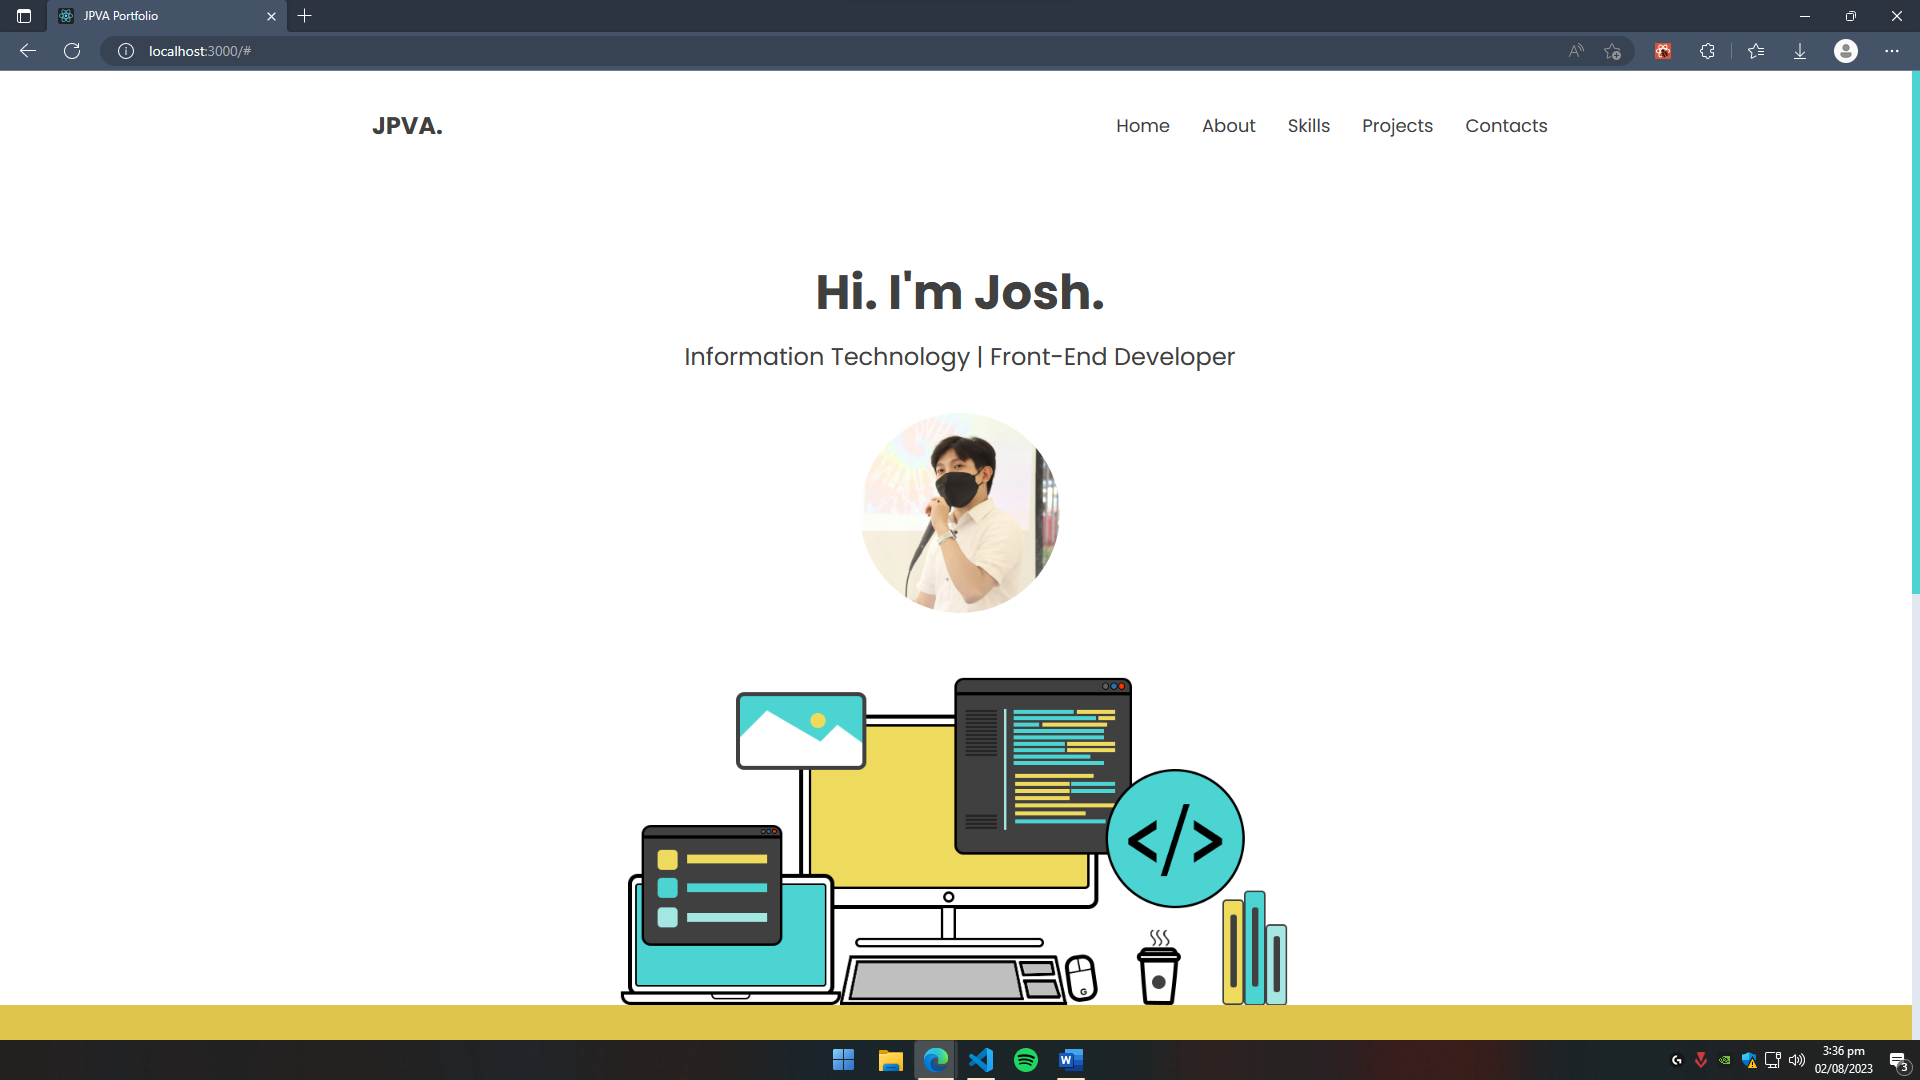
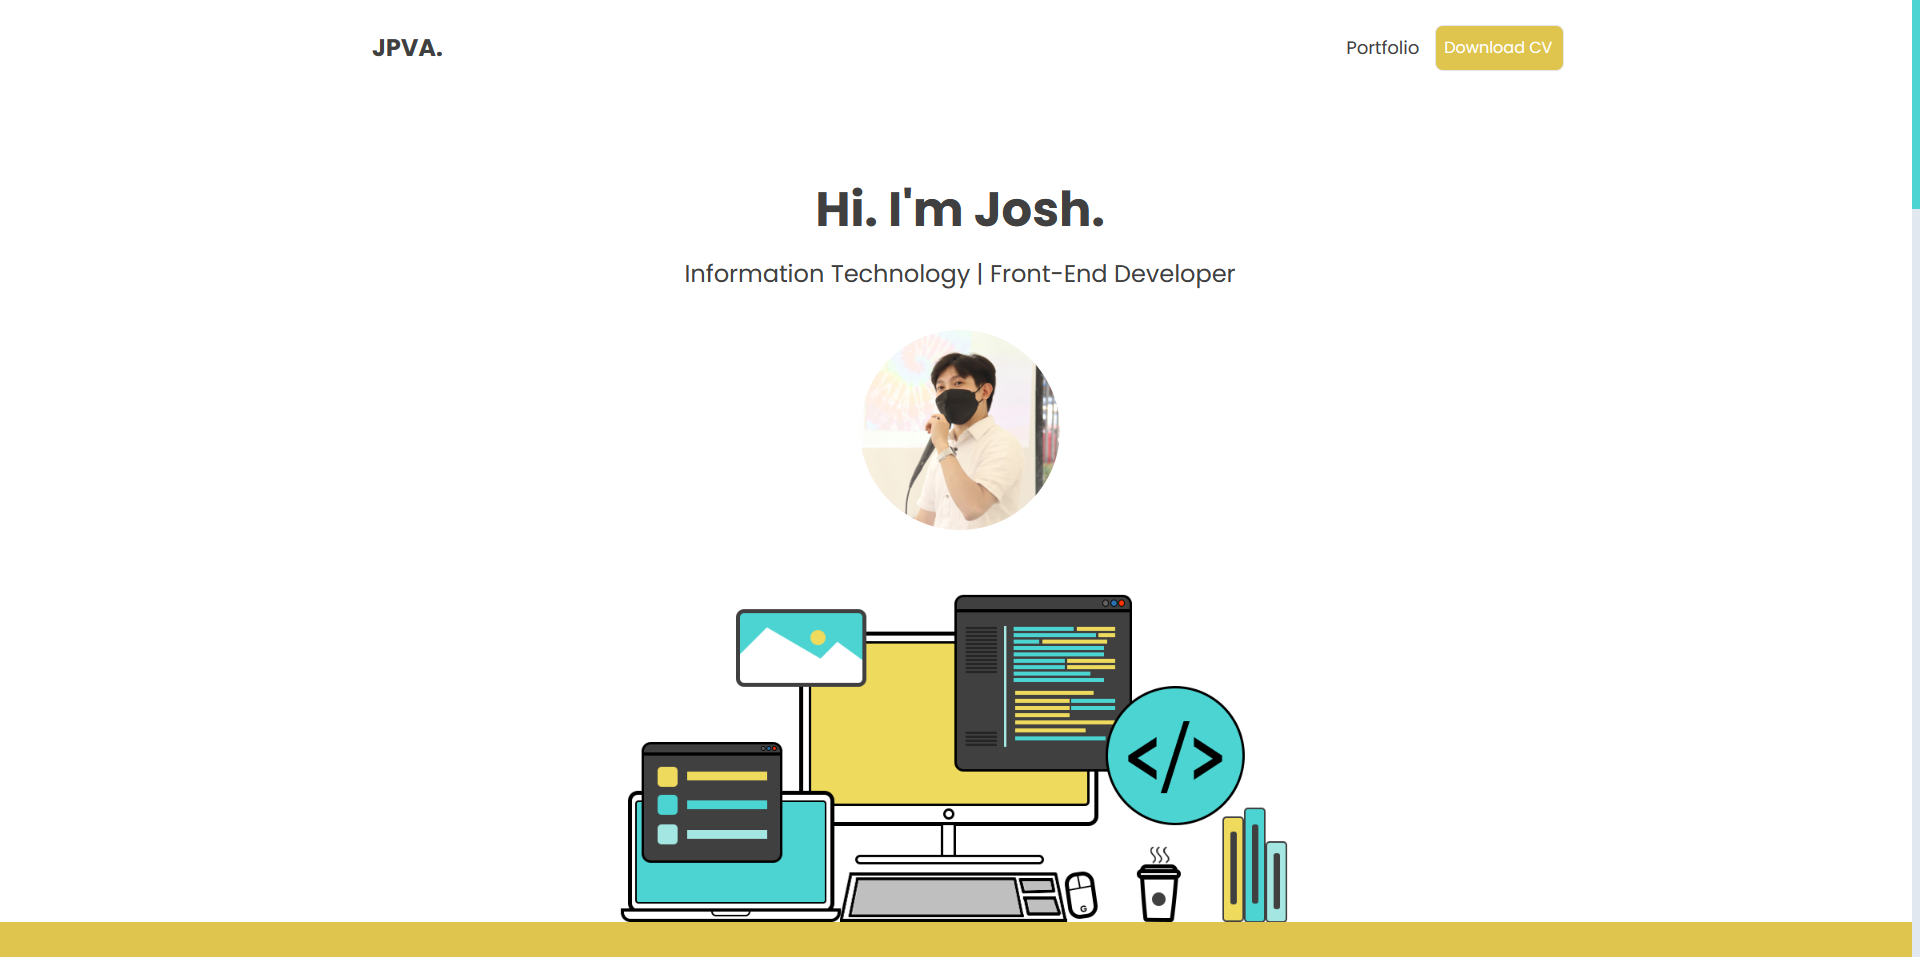
Commit

diff --git a/build/index.html b/build/index.html
@@ -1,1 +1,1 @@
-<!doctype html><html lang="en"><head><meta charset="utf-8"/><link rel="icon" href="/favicon.ico"/><meta name="viewport" content="width=device-width,initial-scale=1"/><meta name="theme-color" content="#000000"/><meta name="description" content="Web site created using create-react-app"/><link rel="apple-touch-icon" href="/logo192.png"/><link rel="manifest" href="/manifest.json"/><link rel="preconnect" href="https://fonts.googleapis.com"/><link rel="preconnect" href="https://fonts.gstatic.com" crossorigin/><link href="https://fonts.googleapis.com/css2?family=Poppins:wght@200;400;500;600;700;800;900&display=swap" rel="stylesheet"/><title>JPVA Portfolio</title><script defer="defer" src="/static/js/main.b551c577.js"></script><link href="/static/css/main.4203d95b.css" rel="stylesheet"></head><body class="scrollbar-thin scrollbar-thumb-[#4CD7D0] scrollbar-track-slate-200"><noscript>You need to enable JavaScript to run this app.</noscript><div id="root"></div></body></html>
+<!doctype html><html lang="en"><head><meta charset="utf-8"/><link rel="icon" href="/favicon.png"/><meta name="viewport" content="width=device-width,initial-scale=1"/><meta name="theme-color" content="#000000"/><meta name="description" content="Web site created using create-react-app"/><link rel="apple-touch-icon" href="/logo192.png"/><link rel="manifest" href="/manifest.json"/><link rel="preconnect" href="https://fonts.googleapis.com"/><link rel="preconnect" href="https://fonts.gstatic.com" crossorigin/><link href="https://fonts.googleapis.com/css2?family=Poppins:wght@200;400;500;600;700;800;900&display=swap" rel="stylesheet"/><title>JPVA Portfolio</title><script defer="defer" src="/static/js/main.ca63ae71.js"></script><link href="/static/css/main.390a3eb8.css" rel="stylesheet"></head><body class="scrollbar-thin scrollbar-thumb-[#4CD7D0] scrollbar-track-slate-200"><noscript>You need to enable JavaScript to run this app.</noscript><div id="root"></div></body></html>

diff --git a/src/components/Experience.jsx b/src/components/Experience.jsx
@@ -15,23 +15,22 @@ const Experience = () => {
             <div className="text-left text-[15px]">
               May 3, 2018 to August 31, 2022
             </div>
-            <div className="text-left text-[14px]">
-              <p className="leading-normal">
-                • Assist the Management Information System(MIS) unit in the
-                maintenance of ICT Infrastructures.
-                <br />
-                • Perform Inventory of ICT structures.
-                <br />
-                • Provide technical supports to MWSS RO events.
-                <br />
-                • Perform such other general services functions as may be
-                required.
-                <br />
-                • Perform Network Troubleshooting.
-                <br />
-                • Perform Website update and posting.
-                <br />• Computer Hardware and Software Troubleshooting.
-              </p>
+            <div className="text-[14px]">
+              <ul className="text-left list-disc flex flex-col px-5 leading-normal">
+                <li className="list-disc">
+                  Assist the Management Information System(MIS) unit in the
+                  maintenance of ICT Infrastructures.
+                </li>
+                <li>Perform Inventory of ICT structures.</li>
+                <li>Provide technical supports to MWSS RO events.</li>
+                <li>
+                  Perform such other general services functions as may be
+                  required.
+                </li>
+                <li>Perform Network Troubleshooting.</li>
+                <li>Perform Website update and posting.</li>
+                <li>Computer Hardware and Software Troubleshooting.</li>
+              </ul>
             </div>
           </div>
           <div className="text-2xl border rounded-xl shadow-md hover:shadow-2xl duration-1000 py-10 px-10 bg-white">

diff --git a/public/index.html b/public/index.html
@@ -2,7 +2,7 @@
 <html lang="en">
   <head>
     <meta charset="utf-8" />
-    <link rel="icon" href="%PUBLIC_URL%/favicon.ico" />
+    <link rel="icon" href="%PUBLIC_URL%/favicon.png" />
     <meta name="viewport" content="width=device-width, initial-scale=1" />
     <meta name="theme-color" content="#000000" />
     <meta
@@ -33,7 +33,9 @@
     />
     <title>JPVA Portfolio</title>
   </head>
-  <body class="scrollbar-thin scrollbar-thumb-[#4CD7D0] scrollbar-track-slate-200">
+  <body
+    class="scrollbar-thin scrollbar-thumb-[#4CD7D0] scrollbar-track-slate-200"
+  >
     <noscript>You need to enable JavaScript to run this app.</noscript>
     <div id="root"></div>
     <!--

diff --git a/src/components/Contact.jsx b/src/components/Contact.jsx
@@ -13,7 +13,7 @@ const Contact = () => {
           Feel free to Contact me by submitting the form below and I will get
           back to you as soon as possible
         </p>
-        <div className="text-left p-10 border rounded-xl shadow-xl hover:shadow-2xl duration-1000 flex flex-col bg-white">
+        <div className="mx-5 text-left p-10 border rounded-xl shadow-xl hover:shadow-2xl duration-1000 flex flex-col bg-white">
           <p className="text-lg">Name</p>
           <input
             className="text-sm hover:shadow-md duration-1000 bg-gray-100 p-3 border rounded-md mb-3"

diff --git a/src/components/Navbar.jsx b/src/components/Navbar.jsx
@@ -5,7 +5,9 @@ import CV from "../assets/aquino-cv.pdf";
 const Navbar = () => {
   return (
     <div className="flex justify-between items-center h-[100px] max-w-[1240px] mx-auto px-4 text-lg text-[#404040]">
-      <h1 className="w-full text-2xl font-bold m-4">JPVA.</h1>
+      <p className="w-full text-2xl font-bold m-4 cursor-pointer">
+        <Link to="home">JPVA.</Link>
+      </p>
       <ul className="hidden md:flex">
         <li className="hidden p-4 hover:scale-110 duration-200 hover:text-[#E1C340]">
           Home

diff --git a/src/components/Hero.jsx b/src/components/Hero.jsx
@@ -4,7 +4,7 @@ import JPVAHardware from '../assets/jpva-hardware.png'
 
 const Hero = () => {
   return (
-    <div id="Home" className="w-full h-auto mx-auto text-[#404040]">
+    <div name="home" className="w-full h-auto mx-auto text-[#404040]">
       <div className="max-w-[800px] mt-16 h-auto mx-auto px-7 text-center flex flex-col justify-center">
         <h1 className="md:text-5xl sm:text-4xl text-3xl font-bold md:py-6">
           Hi. I'm Josh.

diff --git a/src/components/PortfolioItem.jsx b/src/components/PortfolioItem.jsx
@@ -11,7 +11,7 @@ function PortfolioItem({ title, imgUrl, stack, link }) {
       <img
         src={imgUrl}
         alt="portfolio"
-        className="w-full h-52 md:h-48 object-cover cursor-pointer"
+        className="w-full rounded-xl hover:shadow-sm p-1 h-52 md:h-48 object-cover cursor-pointer"
       />
       <div className="w-full p-4">
         <h3 className="text-xl md:text-xl mb-2 md:mb-3">{title}</h3>

diff --git a/src/data/projectData.js b/src/data/projectData.js
@@ -6,7 +6,7 @@ const projectData = [
       title: "JPVA Portfolio",
       imgUrl: `${JPVAPortfolio}`,
       stack: ["React", "Tailwind CSS", "JavaScript"],
-      link: "https://www.linkedin.com/in/joshua-patrick-aquino/",
+      link: "https://github.com/joshpatrickz/jpva.github.io/",
     },
     {
       title: "Project 2",

diff --git a/src/index.css b/src/index.css
@@ -3,6 +3,6 @@
 @tailwind utilities;
 
 body {
-    background-color: #ffffff;
-    font-family: 'Poppins', sans-serif;
+  background-color: #ffffff;
+  font-family: "Poppins", sans-serif;
 }
